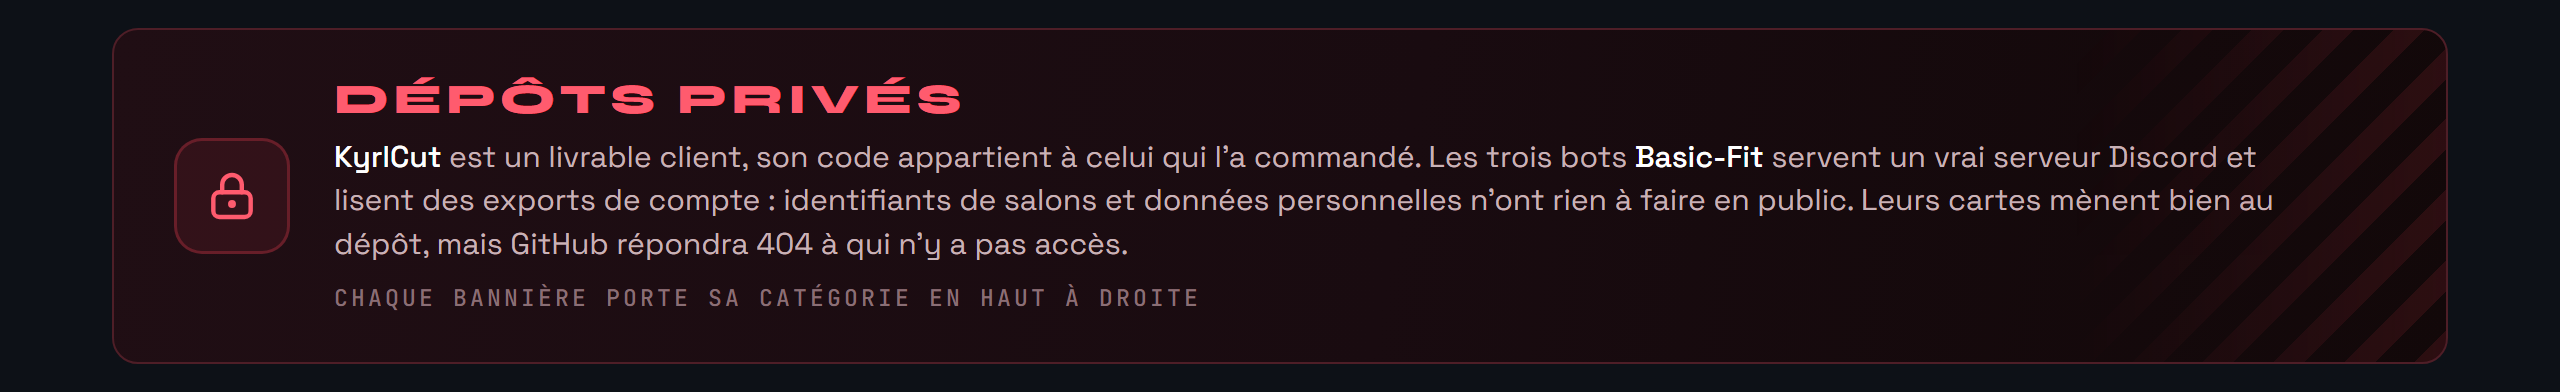
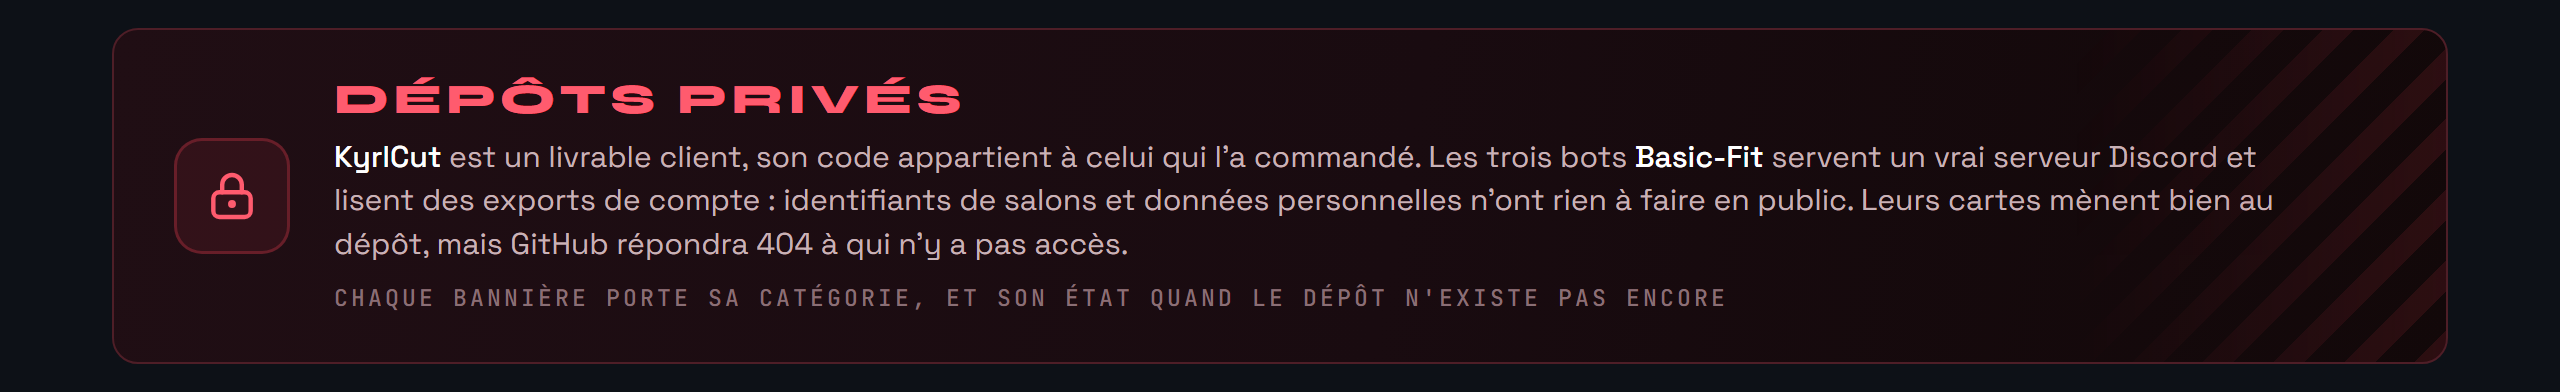
docs: CyberSas et le gestionnaire de budget entrent dans la grille
Les deux chantiers n'apparaissaient que dans la section du bas. Ils
rejoignent la grille de projets, comme BodyCount qui figure déjà dans les
deux. Ils y portent une catégorie, réseau et finances, puisque la note
promet que chaque bannière en porte une, suivie de leur état, qui dit
pourquoi la carte ne mène nulle part : aucun des deux n'a encore de
dépôt.

La note l'annonce désormais, elle ne parlait que de la catégorie.

Claude-Session: https://claude.ai/code/session_019V5npCY8sZ9DGTFA1m79mq

Changed region(s): [[0.3438, 0.7347, 0.6875, 0.7959]]

diff --git a/README.md b/README.md
@@ -39,9 +39,10 @@ Je m'intéresse aux postes en **cybersécurité**, **infrastructure**, **sécuri
 <a href="https://github.com/Cybertrist/KyrlCut"><img src="docs/projets/kyrlcut.png" alt="KyrlCut, prise de rendez-vous pour un salon de coiffure, dépôt privé" width="49.8%"></a><a href="https://github.com/Cybertrist/BodyCount"><img src="docs/projets/bodycount.png" alt="BodyCount, suivi de séances de sport" width="49.8%"></a>
 <a href="https://github.com/Cybertrist/GoMuscu"><img src="docs/projets/gomuscu.png" alt="GoMuscu, bot Discord qui suit les séances de la salle, tient les comptes et relance ceux qui sèchent" width="49.8%"></a><a href="https://github.com/Cybertrist/Basicfit-Coach"><img src="docs/projets/bf-coach.png" alt="Basic-Fit Coach, bot Discord privé qui lit l'export de compte Basic-Fit, heatmap, séries et horaires, et sept calculs de salle" width="49.8%"></a>
 <a href="https://github.com/Cybertrist/Basicfit-Securite"><img src="docs/projets/bf-securite.png" alt="Basic-Fit Sécurité, bot Discord privé de modération, douze commandes et un rôle de mute défini depuis Discord" width="49.8%"></a><a href="https://github.com/Cybertrist/Basicfit-Manager"><img src="docs/projets/bf-manager.png" alt="Basic-Fit Manager, bot Discord privé d'accueil et de billetterie, tickets ouverts au menu, rôle donné à l'arrivée, guide en message privé" width="49.8%"></a>
+<img src="docs/projets/cybersas.png" alt="CyberSas, réseau, en cours. Reverse proxy et VPN auto-hébergés : un point d'entrée unique, terminaison TLS, et un tunnel privé pour le reste" width="49.8%"><img src="docs/projets/budget.png" alt="Gestionnaire de budget, finances, planifié. Savoir où part l'argent sans ressaisir trois fois la même dépense : catégories, échéances, et un bilan qui tient sur un écran" width="49.8%">
 </p>
 
-<img src="docs/notes/prive.png" alt="Dépôts privés. KyrlCut est un livrable client, son code appartient à celui qui l'a commandé. Les trois bots Basic-Fit servent un vrai serveur Discord et lisent des exports de compte : identifiants de salons et données personnelles n'ont rien à faire en public. Leurs cartes mènent bien au dépôt, mais GitHub répondra 404 à qui n'y a pas accès. Chaque bannière porte sa catégorie en haut à droite." width="100%">
+<img src="docs/notes/prive.png" alt="Dépôts privés. KyrlCut est un livrable client, son code appartient à celui qui l'a commandé. Les trois bots Basic-Fit servent un vrai serveur Discord et lisent des exports de compte : identifiants de salons et données personnelles n'ont rien à faire en public. Leurs cartes mènent bien au dépôt, mais GitHub répondra 404 à qui n'y a pas accès. Chaque bannière porte sa catégorie, et son état quand le dépôt n'existe pas encore." width="100%">
 
 <img src="docs/sections/chantier.png" alt="En chantier" width="100%">
 
